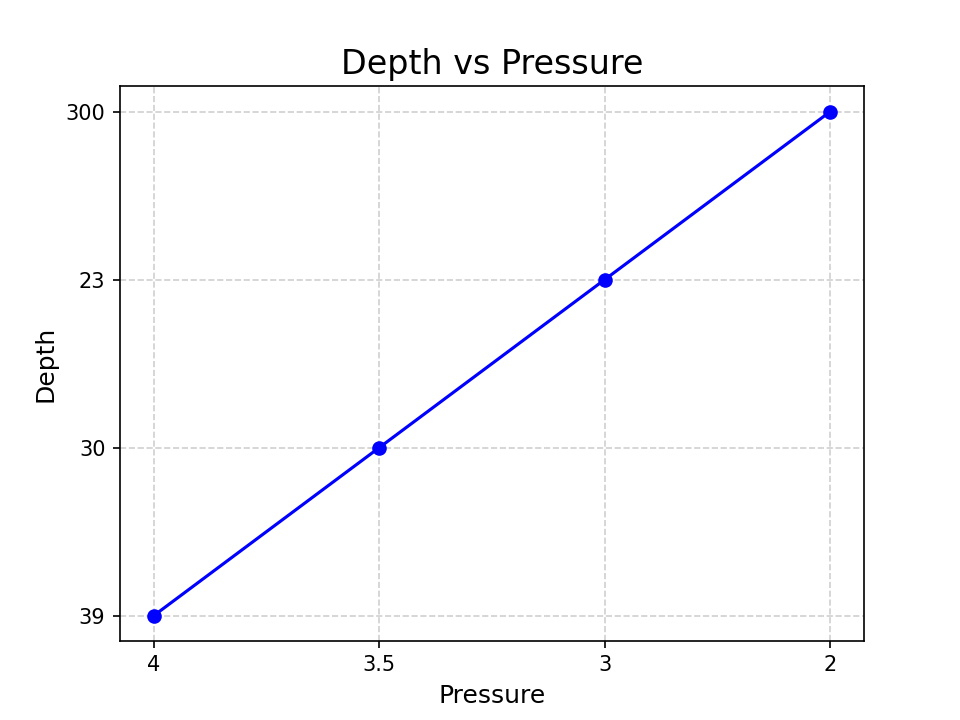
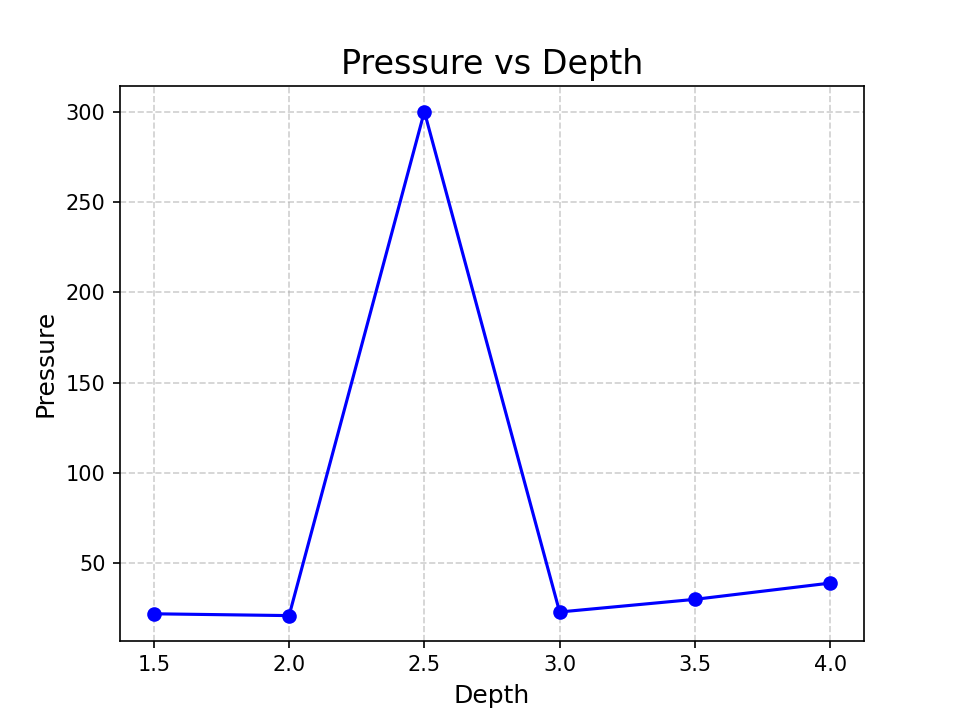
graph actually uses numbers instead of strings now, looks slightly nicer, still have no idea why it takes so long to show up without closing and reopening docker

diff --git a/follow-the-line/floatcsv/floatCSV.py b/follow-the-line/floatcsv/floatCSV.py
@@ -1,24 +1,34 @@
 import csv
-import matplotlib.pyplot
+import matplotlib
+matplotlib.use("Agg")
+import matplotlib.pyplot as plt
+
+#planned csv format is depth, pressure, temp, lumens
+
 
 with open('testData.csv','r',newline='') as csvFile:
     reader=csv.reader(csvFile,delimiter=',')
     Depth = []
     Pressure = []
+
+    #index is used to skip headings
+    #add data to a list that contains all related data (all depth or pressure)
     index=0
     for row in reader:
+        if(index==0):
+            index+=1
+            continue
+        Depth.append(float(row[0]))
+        Pressure.append(float(row[1]))
         
-        Depth.append(row[0])
-        Pressure.append(row[1])
-        index+=1
-    print(Depth)
-    print(Pressure)
-    matplotlib.pyplot.plot(Depth,Pressure,marker="o", color="b")
-    matplotlib.pyplot.grid(True, linestyle="--", alpha=0.6)
     
-    matplotlib.pyplot.title("Depth vs Pressure", fontsize=16)
-    matplotlib.pyplot.xlabel("Pressure", fontsize=12)
-    matplotlib.pyplot.ylabel("Depth", fontsize=12)
+    plt.plot(Depth,Pressure,marker="o", color="b")
+    plt.grid(True, linestyle="--", alpha=0.6)
+    
+    plt.title("Pressure vs Depth", fontsize=16)
+    plt.xlabel("Depth", fontsize=12)
+    plt.ylabel("Pressure", fontsize=12)
    
-    matplotlib.pyplot.savefig("bagel.png",dpi=150,pil_kwargs={'compress_level': 3})
-    print('idek')
+    plt.savefig("bagel.png",dpi=150,pil_kwargs={'compress_level': 3})
+    plt.close("all")
+    csvFile.close()
